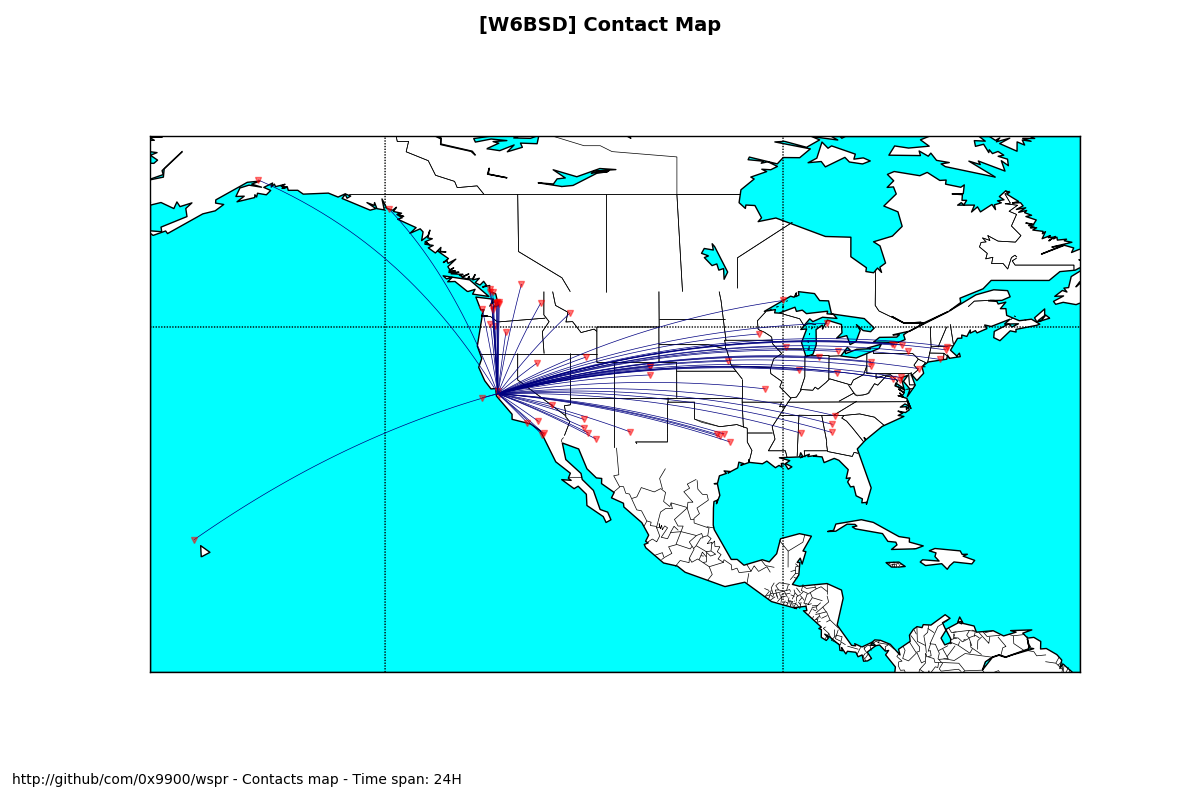
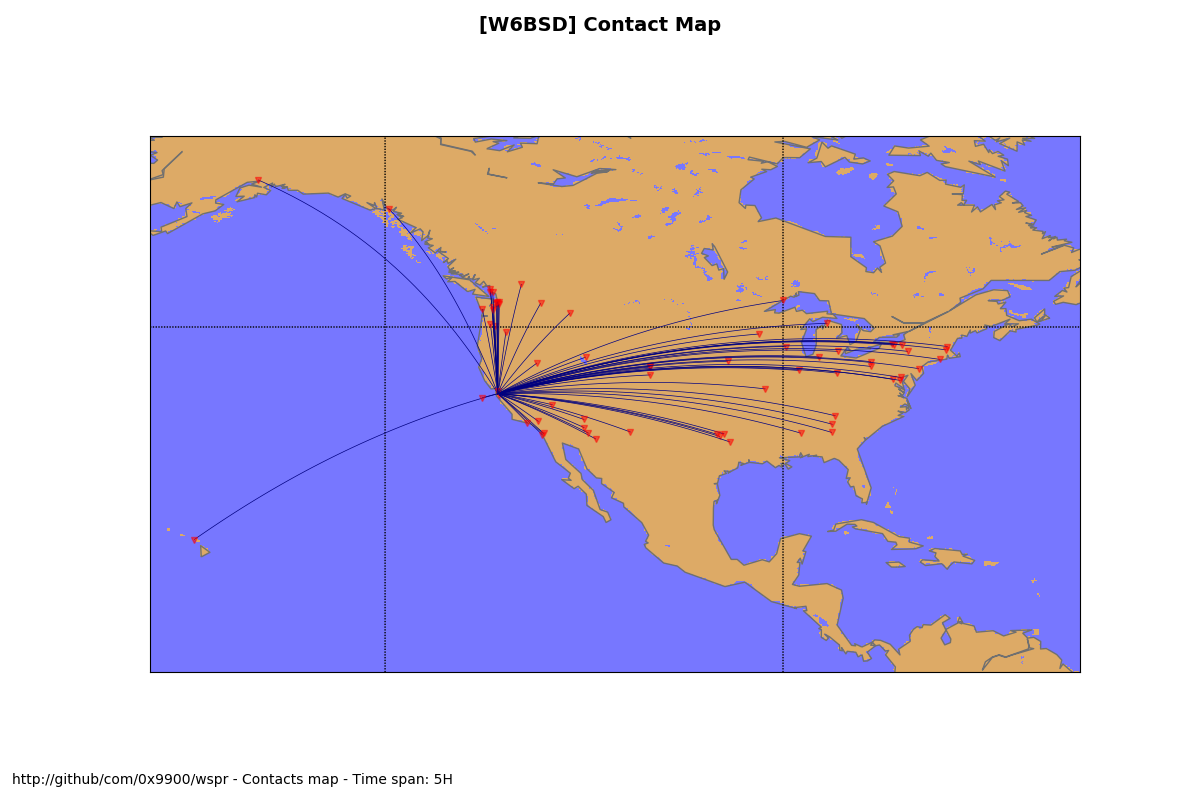
Nicer more colorful maps

diff --git a/leaf.py b/leaf.py
@@ -350,11 +350,8 @@ def contact_map(wspr_data):
   bmap = Basemap(projection='cyl', lon_0=wspr_data[0].tx_lon, lat_0=wspr_data[0].tx_lat,
                  urcrnrlat=upd+5, urcrnrlon=right+15, llcrnrlat=down-15, llcrnrlon=left-5,
                  resolution='c')
-  bmap.drawstates()
-
-  bmap.fillcontinents(color='white', lake_color='aqua')
-  bmap.drawcoastlines()
-  bmap.drawmapboundary(fill_color='aqua')
+  bmap.drawlsmask(land_color = "#ddaa66", ocean_color="#7777ff", resolution = 'l')
+  bmap.drawcoastlines(color="#707070")
   bmap.drawparallels(np.arange(-90., 90., 45.))
   bmap.drawmeridians(np.arange(-180., 180., 45.))
 
